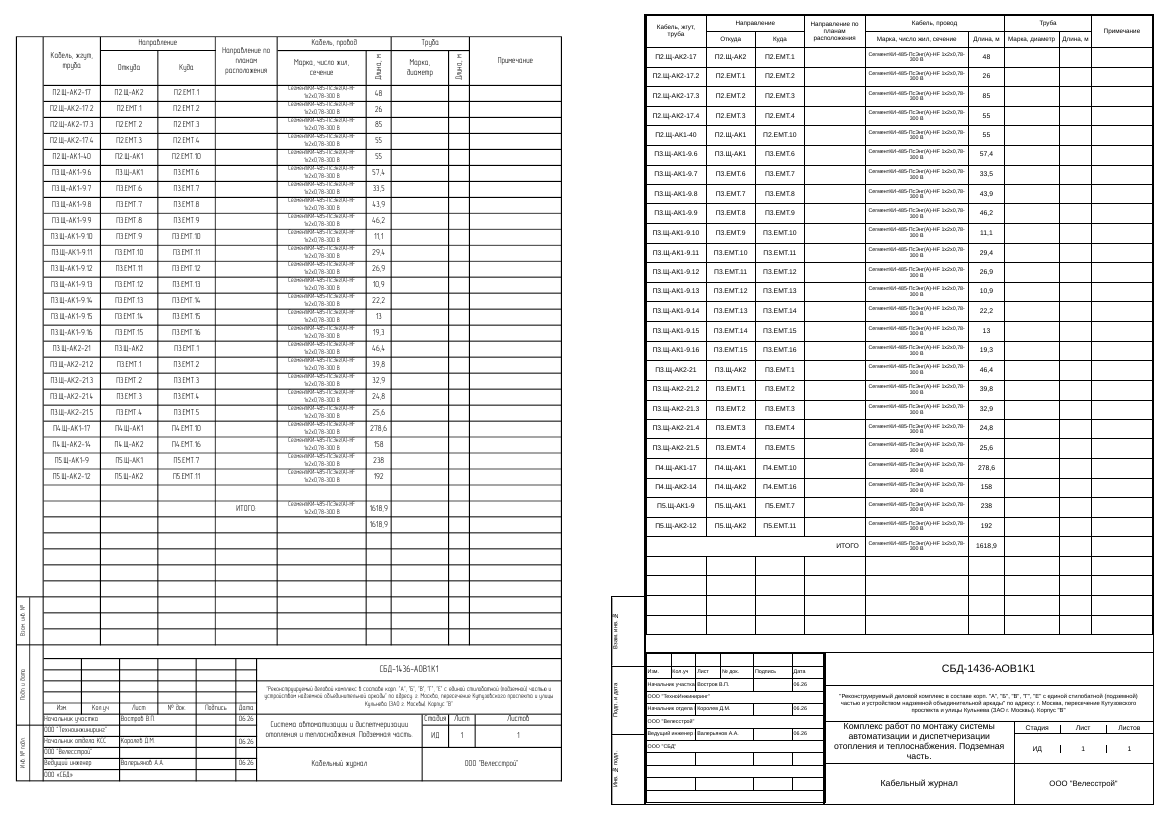
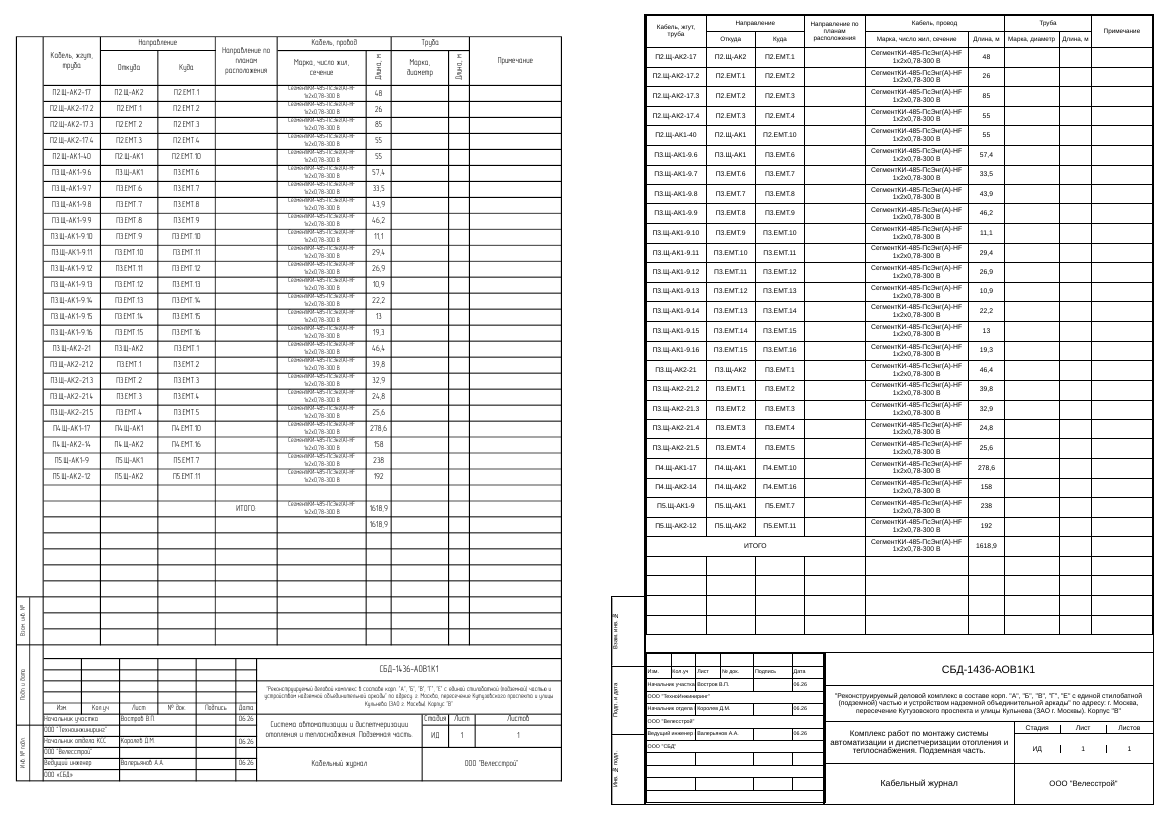
fix: замечания итогового ревью плана 6
- журнал: ячейки фиксированной высоты, кегль подбирается по длине текста — длинные марки
  не раздвигают строки и не уходят под штамп; тексты штампа вписываются в свои графы
- журнал не требует полей протокола (№, даты измерений), протокол — шифра и даты журнала

Claude-Session: https://claude.ai/code/session_01Nz1BG9XYscm62GNXkJKnVR

diff --git a/packages/server/src/print/templates/kj.ts b/packages/server/src/print/templates/kj.ts
@@ -3,6 +3,7 @@ import type { KjData } from "../cableData.ts";
 import type { JournalLine } from "@idk/shared/acts/cableDocs";
 import { JOURNAL_LINES_PER_SHEET } from "@idk/shared/acts/cableDocs";
 import { e, page } from "./common.ts";
+import { formatNumber } from "@idk/shared/acts/format";
 
 const STYLE = `<style>
 @page { size: A4 portrait; margin: 0; }
@@ -15,10 +16,10 @@ body.kj { font-family: Arial, "Liberation Sans", sans-serif; font-size: 7pt; }
 .side div:last-child { border-bottom: 0; }
 .side span { writing-mode: vertical-rl; transform: rotate(180deg); font-size: 6pt; width: 5mm; border-right: 0.3mm solid #000; text-align: center; }
 table.kj-t { width: 100%; border-collapse: collapse; table-layout: fixed; }
-table.kj-t th, table.kj-t td { border: 0.3mm solid #000; padding: 0 1mm; text-align: center; overflow: hidden; white-space: nowrap; }
+table.kj-t th, table.kj-t td { border: 0.3mm solid #000; padding: 0 1mm; text-align: center; overflow: hidden; }
 table.kj-t th { font-weight: normal; height: 5.8mm; font-size: 6.5pt; white-space: normal; line-height: 1.05; }
-table.kj-t td { height: 7.1mm; }
-table.kj-t td.mark { white-space: normal; font-size: 5.5pt; line-height: 1.05; }
+table.kj-t td { height: 7.1mm; padding: 0 0.7mm; }
+.fit { overflow: hidden; display: flex; align-items: center; justify-content: center; white-space: normal; line-height: 1.12; word-break: break-word; }
 table.kj-t tr.grp td { font-weight: bold; }
 table.kj-t tr.tot td.lbl { text-align: right; padding-right: 2mm; }
 .stamp { position: absolute; left: 0; right: 0; bottom: 0; height: 55mm; border-top: 0.7mm solid #000; display: flex; }
@@ -29,6 +30,7 @@ table.kj-t tr.tot td.lbl { text-align: right; padding-right: 2mm; }
 .st-right > div { border-bottom: 0.3mm solid #000; display: flex; align-items: center; justify-content: center; text-align: center; padding: 0 2mm; }
 .st-right > div:last-child { border-bottom: 0; }
 .st-code { font-size: 11pt; }
+.st-right > div > .fit, .st-row > div > .fit { width: 100%; }
 .st-obj { font-size: 6pt; line-height: 1.15; }
 .st-row { display: flex; padding: 0 !important; align-items: stretch !important; }
 .st-row > div { display: flex; align-items: center; justify-content: center; text-align: center; border-right: 0.3mm solid #000; padding: 0 1.5mm; }
@@ -42,19 +44,43 @@ table.kj-t tr.tot td.lbl { text-align: right; padding-right: 2mm; }
 </style>`;
 
 const COLS = [22, 18, 18, 22, 38, 13, 20, 12, 22];
+/** Ширина рабочего поля рамки, мм (185 мм минус линии рамки). */
+const INNER = 183.6;
+const ROW_H = 7.1;
+
+/** Кегль, при котором текст помещается в блок ширины w и высоты h (мм): строки не раздвигаются. */
+export function fitFont(text: string, w: number, h: number, maxPt: number, minPt = 3): number {
+  const len = Math.max(1, text.length);
+  for (let pt = maxPt; pt > minPt; pt -= 0.25) {
+    const charW = pt * 0.3528 * 0.62;   // средняя ширина знака Arial (кириллица), с запасом
+    const lineH = pt * 0.3528 * 1.18;
+    const perLine = Math.max(1, Math.floor(w / charW));
+    if (Math.ceil(len / perLine) * lineH <= h) return Math.round(pt * 100) / 100;
+  }
+  return minPt;
+}
+
+/** Текст в блоке фиксированного размера: кегль подбирается, лишнее обрезается — строка не растёт. */
+function fit(text: string, w: number, h: number, maxPt: number, align = "center"): string {
+  const pt = fitFont(text, w, h, maxPt);
+  const justify = align === "right" ? "flex-end" : align === "left" ? "flex-start" : "center";
+  return `<div class="fit" style="height:${h}mm;font-size:${pt}pt;text-align:${align};justify-content:${justify}">${e(text)}</div>`;
+}
+const colW = (i: number, span = 1) => COLS.slice(i, i + span).reduce((a, b) => a + b, 0) * INNER / 185 - 1.4;
+const cell = (text: string, i: number, span = 1, align = "center") =>
+  `<td${span > 1 ? ` colspan="${span}"` : ""}>${fit(text, colW(i, span), ROW_H - 0.8, 7, align)}</td>`;
 
 function line(l: JournalLine | undefined): string {
   if (!l) return `<tr>${COLS.map(() => "<td></td>").join("")}</tr>`;
-  if (l.kind === "group") return `<tr class="grp"><td colspan="9">${e(l.title)}</td></tr>`;
+  if (l.kind === "group") return `<tr class="grp">${cell(l.title, 0, 9)}</tr>`;
   if (l.kind === "total") {
     return l.pipe
-      ? `<tr class="tot"><td colspan="6" class="lbl">${e(l.label)}</td><td class="mark">${e(l.mark)}</td><td>${e(l.length)}</td><td></td></tr>`
-      : `<tr class="tot"><td colspan="4" class="lbl">${e(l.label)}</td><td class="mark">${e(l.mark)}</td><td>${e(l.length)}</td><td></td><td></td><td></td></tr>`;
+      ? `<tr class="tot">${cell(l.label, 0, 6, "right")}${cell(l.mark, 6)}${cell(l.length, 7)}<td></td></tr>`
+      : `<tr class="tot">${cell(l.label, 0, 4, "right")}${cell(l.mark, 4)}${cell(l.length, 5)}<td></td><td></td><td></td></tr>`;
   }
   const r = l.row;
-  const n = (x: number | null) => (x === null ? "" : String(Math.round(x * 1000) / 1000).replace(".", ","));
-  return `<tr><td>${e(r.designation)}</td><td>${e(r.from)}</td><td>${e(r.to)}</td><td>${e(r.direction)}</td>` +
-    `<td class="mark">${e(r.cableMark)}</td><td>${n(r.cableLength)}</td><td class="mark">${e(r.pipeMark)}</td><td>${n(r.pipeLength)}</td><td>${e(r.note)}</td></tr>`;
+  return `<tr>${cell(r.designation, 0)}${cell(r.from, 1)}${cell(r.to, 2)}${cell(r.direction, 3)}${cell(r.cableMark, 4)}` +
+    `${cell(formatNumber(r.cableLength), 5)}${cell(r.pipeMark, 6)}${cell(formatNumber(r.pipeLength), 7)}${cell(r.note, 8)}</tr>`;
 }
 
 function stamp(d: KjData, no: number, total: number): string {
@@ -71,10 +97,10 @@ function stamp(d: KjData, no: number, total: number): string {
   return `<div class="stamp">
     <div class="st-left"><table><colgroup><col style="width:9mm"><col style="width:9mm"><col style="width:9mm"><col style="width:12mm"><col style="width:14mm"><col style="width:12mm"></colgroup>${rows}</table></div>
     <div class="st-right">
-      <div class="st-code">${e(s.code)}</div>
-      <div class="st-obj">${e(s.object)}</div>
-      <div class="st-row"><div class="st-name">${e(s.section)}</div><div class="st-meta"><span>Стадия</span><span>Лист</span><span>Листов</span><span>ИД</span><span>${no}</span><span>${total}</span></div></div>
-      <div class="st-row"><div class="st-name">Кабельный журнал</div><div class="st-org">${e(s.org)}</div></div>
+      <div class="st-code">${fit(s.code, 114, 11, 11)}</div>
+      <div class="st-obj">${fit(s.object, 114, 12, 7)}</div>
+      <div class="st-row"><div class="st-name">${fit(s.section, 66, 14, 9)}</div><div class="st-meta"><span>Стадия</span><span>Лист</span><span>Листов</span><span>ИД</span><span>${no}</span><span>${total}</span></div></div>
+      <div class="st-row"><div class="st-name">${fit("Кабельный журнал", 66, 14, 9)}</div><div class="st-org">${fit(s.org, 46, 14, 8)}</div></div>
     </div>
   </div>`;
 }

diff --git a/packages/server/test/print.kj.layout.test.ts b/packages/server/test/print.kj.layout.test.ts
@@ -1,0 +1,58 @@
+import { test, after } from "node:test";
+import assert from "node:assert/strict";
+import { readBook } from "@idk/shared/workbook/records";
+import { defaultImportant } from "@idk/shared/workbook/important";
+import { buildCableBundle } from "@idk/shared/workbook/cables";
+import { cableDocData } from "@idk/server/print/cableData";
+import { kjHtml } from "@idk/server/print/templates/kj";
+import { htmlToPdf, closeBrowser, currentBrowserForTests } from "@idk/server/print/browser";
+import { aov1Book, AOV1 } from "../../shared/test/fixtures/aov1Book.ts";
+
+after(() => closeBrowser());
+
+/** Геометрия листов журнала в браузере: нижняя граница таблицы, верх штампа, переполненные ячейки. */
+async function measure(html: string) {
+  await htmlToPdf("<p>x</p>");
+  const b = (await currentBrowserForTests())!;
+  const page = await b.newPage();
+  await page.setContent(html, { waitUntil: "load" });
+  const r = await page.evaluate(() => [...document.querySelectorAll(".sheet")].map((s) => {
+    const t = s.querySelector("table.kj-t")!.getBoundingClientRect();
+    const st = s.querySelector(".stamp")!.getBoundingClientRect();
+    const sheet = s.getBoundingClientRect();
+    const over = [...s.querySelectorAll(".fit")].filter((el) => (el as HTMLElement).scrollHeight > (el as HTMLElement).clientHeight + 1).length;
+    const fits = s.querySelectorAll(".stamp .fit").length;
+    return { tableBottom: t.bottom, stampTop: st.top, stampBottom: st.bottom, sheetBottom: sheet.bottom, over, fits };
+  }));
+  await page.close();
+  return r;
+}
+
+async function data(patch: (b: any) => void) {
+  const b = buildCableBundle(await readBook(aov1Book()), AOV1, defaultImportant(), "kj").bundle!;
+  patch(b);
+  return cableDocData(b, "kj");
+}
+
+test("ревью: длинные марки кабеля и трубы не раздвигают строки — таблица выше штампа", async () => {
+  const d = await data((b) => {
+    const r0 = b.cables.rows[0];
+    b.cables.rows = Array.from({ length: 28 }, (_, i) => ({ ...r0, designation: `Л-${i + 1}`,
+      cableMark: "Кабель силовой с медными жилами с изоляцией и оболочкой из ПВХ пониженной пожарной опасности ВВГнг(А)-LS 5х16мк(N,PE)-0,66 кВ",
+      pipeMark: "Труба гофрированная ПВХ с зондом лёгкая d=20 мм серая", pipeLength: 12 }));
+  });
+  assert.equal(d.sheets.length, 1);
+  const [s] = await measure(kjHtml(d));
+  assert.ok(s.tableBottom <= s.stampTop + 0.5, `таблица ${s.tableBottom} заходит на штамп ${s.stampTop}`);
+  assert.equal(s.over, 0, "текст не помещается в ячейки");
+});
+
+test("ревью: длинные наименования объекта и раздела помещаются в штамп", async () => {
+  const d = await data(() => {});
+  d.stamp.section = "Комплекс работ по монтажу системы автоматизации и диспетчеризации отопления, вентиляции, кондиционирования и теплоснабжения. Подземная часть. Корпуса А, Б, В";
+  d.stamp.object = "Реконструируемый деловой комплекс в составе корп. А, Б, В, Г, Е с единой стилобатной (подземной) частью и устройством надземной объединительной аркады по адресу: г. Москва, пересечение Кутузовского проспекта и улицы Кульнева (ЗАО г. Москвы). Корпус В. Очередь строительства 2, этап 3";
+  const [s] = await measure(kjHtml(d));
+  assert.ok(s.fits >= 3, "тексты штампа вписываются (класс fit)");
+  assert.equal(s.over, 0, "текст штампа не помещается");
+  assert.ok(s.stampBottom <= s.sheetBottom + 0.5);
+});

diff --git a/packages/shared/src/workbook/cables.ts b/packages/shared/src/workbook/cables.ts
@@ -27,7 +27,13 @@ export function buildCableBundle(book: Book, actNumber: string, important: Impor
 
   const docRow = ofAct("ДокументыКабелей")[0];
   if (!docRow) c.push("ДокументыКабелей", null, "Акт", `Нет строки акта «${n}» в таблице «ДокументыКабелей»`);
-  const doc = docRow ? c.checkRow("ДокументыКабелей", docRow) : null;
+  // Важные поля строки документов — только те, что нужны печатаемому документу.
+  const KJ_ONLY = ["journalCode", "journalDate"], IP_ONLY = ["protocolNumber", "dateFrom", "dateTo"];
+  const skip = new Set((kind === "kj" ? IP_ONLY : KJ_ONLY).map((k) => column("ДокументыКабелей", k).header));
+  const docImportant: ImportantMap = { ...important, "ДокументыКабелей": (important["ДокументыКабелей"] ?? []).filter((h) => !skip.has(h)) };
+  const dc = createChecker(book, docImportant);
+  const doc = docRow ? dc.checkRow("ДокументыКабелей", docRow) : null;
+  for (const i of dc.issues) c.push(i.table, i.row, i.column, i.message);
   if (docRow) c.checkDuplicates("ДокументыКабелей", [docRow]);
 
   const markRows = new Map<string, BookRow>();

diff --git a/packages/shared/test/workbook.cables.test.ts b/packages/shared/test/workbook.cables.test.ts
@@ -92,3 +92,19 @@ test("Собрать марки из журнала", async () => {
   assert.equal(t!.rows[0][3], 0.5);
   assert.equal(await collectMarks(wb, await readBook(wb)), 0);
 });
+
+test("ревью: журнал не требует полей протокола в «ДокументыКабелей»", async () => {
+  const b = await book((r) => {
+    const d = r["ДокументыКабелей"][0];
+    d["№ протокола"] = null; d["Измерения с"] = null; d["Измерения по"] = null;
+  });
+  assert.deepEqual(buildCableBundle(b, AOV1, defaultImportant(), "kj").issues, []);
+  const ip = msgs(buildCableBundle(b, AOV1, defaultImportant(), "ip"));
+  assert.equal(ip.filter((m) => m === "Не заполнено").length, 3);
+});
+
+test("ревью: протокол не требует шифра и даты журнала", async () => {
+  const b = await book((r) => { const d = r["ДокументыКабелей"][0]; d["Шифр журнала"] = null; d["Дата журнала"] = null; });
+  assert.deepEqual(buildCableBundle(b, AOV1, defaultImportant(), "ip").issues, []);
+  assert.equal(msgs(buildCableBundle(b, AOV1, defaultImportant(), "kj")).filter((m) => m === "Не заполнено").length, 2);
+});
